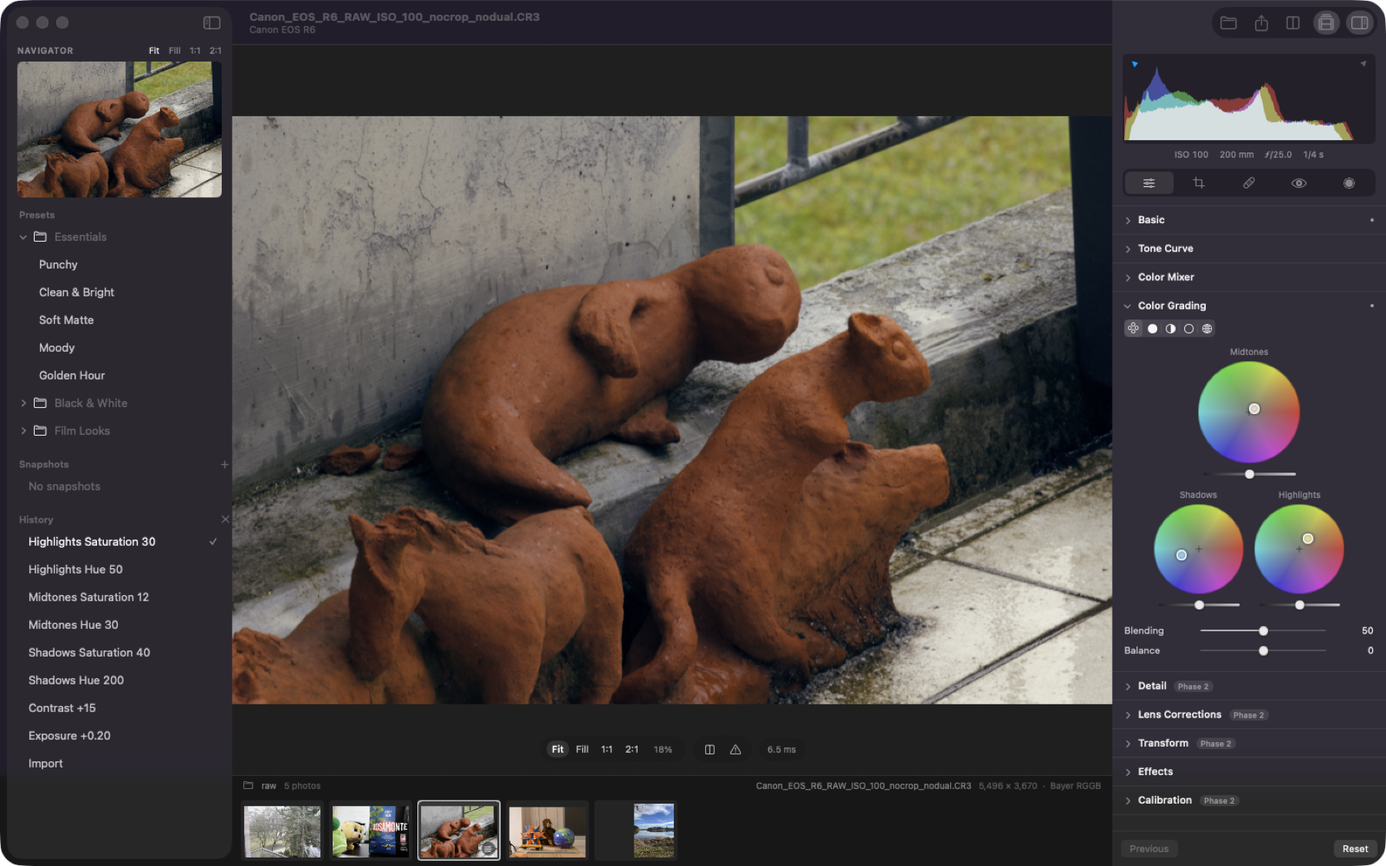
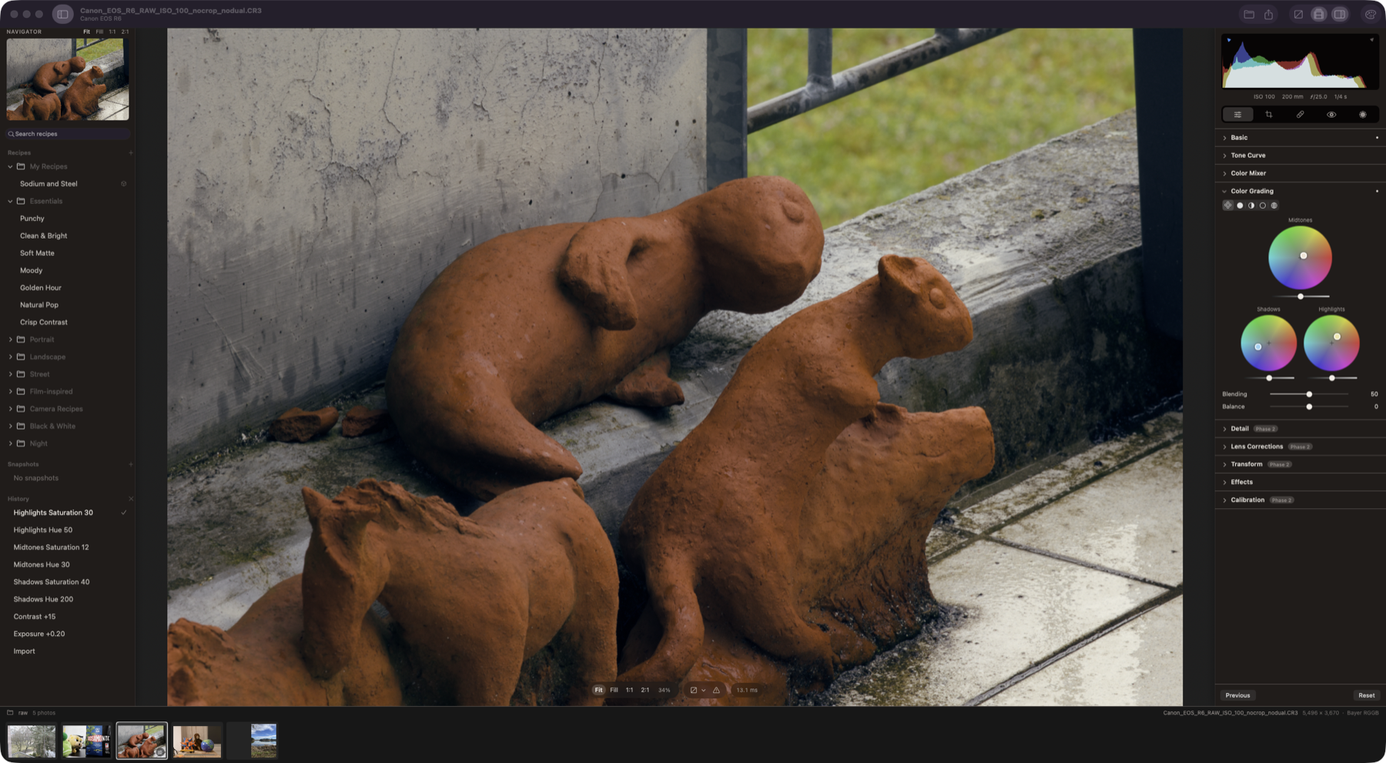
README: branding, app and Recipe Lab screenshots, harness guide and updated milestones
- App icon and logo lockup at the top; status, what works, recipes and looks, and the roadmap brought up to date
- New screenshots: camera recipe, Detail at 1:1, side-by-side before/after, five Recipe Lab views and harness tokens
- Screenshot script works on a temporary copy of the fixtures, launches through open, restores the last folder, and captures the harness
- Recipe Lab launch options for scripted captures (tab, compare, mode, image, run, hidden gallery)

diff --git a/apps/RedlampHarness/Sources/Scenes/RecipeLabScene.swift b/apps/RedlampHarness/Sources/Scenes/RecipeLabScene.swift
@@ -13,7 +13,13 @@ extension HarnessScene {
                 + "compare, inspect, lint, create, and review agent runs",
             section: .recipes,
         ) {
-            RecipeLabView(model: HarnessLab.model)
+            RecipeLabView(
+                model: HarnessLab.model,
+                tab: HarnessLaunch.value(after: "--lab-tab").flatMap { name in
+                    RecipeLabView.Tab.allCases.first { $0.rawValue.lowercased() == name.lowercased() }
+                } ?? .compare,
+                showsGallery: !HarnessLaunch.arguments.contains("--lab-hide-gallery"),
+            )
         }
         scene.fillsStage = true
         return scene
@@ -29,10 +35,25 @@ enum HarnessLab {
             fatalError("The harness needs a Metal GPU")
         }
         let model = RecipeLabModel(engine: engine, editor: HarnessEditor.model, root: repositoryRoot)
-        // `--lab-select <recipe id>` preselects a recipe, for scripted screenshots.
+        // For scripted screenshots: `--lab-select <recipe id>` and `--lab-compare <recipe id>`
+        // pick A and B, `--lab-mode <split|beforeAfter|sideBySide|flicker|acrossSet>` the
+        // comparison, `--lab-image <camera>` the photo, `--lab-tab <tab>` and
+        // `--lab-hide-gallery` the layout, and `--lab-run <run>` the studio run.
         if let id = HarnessLaunch.value(after: "--lab-select") {
             model.selectedID = model.allItems.first { $0.recipe.id == id }?.id
         }
+        if let id = HarnessLaunch.value(after: "--lab-compare") {
+            model.compareID = model.allItems.first { $0.recipe.id == id }?.id
+        }
+        if let name = HarnessLaunch.value(after: "--lab-mode"),
+           let mode = LabCompareMode.allCases.first(where: { "\($0)".lowercased() == name.lowercased() }) {
+            model.compareMode = mode
+        }
+        if let name = HarnessLaunch.value(after: "--lab-image"),
+           let image = model.images.first(where: { $0.name.localizedCaseInsensitiveContains(name) }) {
+            model.selectedImage = image
+        }
+        model.preferredRun = HarnessLaunch.value(after: "--lab-run")
         return model
     }()
 

diff --git a/packages/RedlampUI/Sources/Recipes/Lab/RecipeLabView.swift b/packages/RedlampUI/Sources/Recipes/Lab/RecipeLabView.swift
@@ -10,22 +10,24 @@ import UniformTypeIdentifiers
 /// Built in RedlampUI so the harness, the app and a companion app can all host it.
 public struct RecipeLabView: View {
     @Bindable var model: RecipeLabModel
-    @State private var tab = Tab.compare
-    @State private var showGallery = true
+    @State private var tab: Tab
+    @State private var showGallery: Bool
 
-    enum Tab: String, CaseIterable, Identifiable {
+    public enum Tab: String, CaseIterable, Identifiable, Sendable {
         case compare = "Compare"
         case inspect = "Inspect"
         case create = "Create"
         case runs = "Runs"
 
-        var id: String {
+        public var id: String {
             rawValue
         }
     }
 
-    public init(model: RecipeLabModel) {
+    public init(model: RecipeLabModel, tab: Tab = .compare, showsGallery: Bool = true) {
         self.model = model
+        _tab = State(initialValue: tab)
+        _showGallery = State(initialValue: showsGallery)
     }
 
     public var body: some View {

diff --git a/packages/RedlampUI/Sources/Recipes/Lab/RecipeRunsView.swift b/packages/RedlampUI/Sources/Recipes/Lab/RecipeRunsView.swift
@@ -30,11 +30,11 @@ final class RecipeRunsModel {
     private(set) var message: String?
     @ObservationIgnored private var lastModified = Date.distantPast
 
-    init(root: URL, rater: String = NSUserName()) {
+    init(root: URL, rater: String = NSUserName(), preferredRun: String? = nil) {
         self.root = root
         self.rater = rater
         runs = RunStore.all(root: root)
-        selectedRun = runs.first?.id
+        selectedRun = runs.first { $0.id == preferredRun }?.id ?? runs.first?.id
         reload()
     }
 
@@ -221,7 +221,7 @@ struct RecipeRunsView: View {
         }
         .onAppear {
             if runs == nil, let root = model.root {
-                runs = RecipeRunsModel(root: root)
+                runs = RecipeRunsModel(root: root, preferredRun: model.preferredRun)
             }
         }
     }

diff --git a/packages/RedlampUI/Sources/Recipes/Lab/RecipeLabModel.swift b/packages/RedlampUI/Sources/Recipes/Lab/RecipeLabModel.swift
@@ -157,6 +157,9 @@ public final class RecipeLabModel {
         return recipes + looks + candidates
     }
 
+    /// The studio run the Runs tab opens on; the first run when nil.
+    public var preferredRun: String?
+
     /// Studio candidates opened from the Runs tab, so they can be compared at full size.
     public private(set) var candidates: [LabItem] = []
     /// Changes whenever the Runs tab asks the Lab to show the Compare tab.

diff --git a/README.md b/README.md
@@ -1,12 +1,21 @@
-# Redlamp
+<p align="center">
+  <img src="docs/brand/images/app-icon.png" width="128" height="128" alt="The Redlamp app icon: a glowing ruby safelight lens in a steel bezel">
+</p>
 
-**A native, open-source RAW photo editor for Mac, iPad, and iPhone that anyone who knows Lightroom will find familiar.**
+<h1 align="center">
+  <picture>
+    <source media="(prefers-color-scheme: light)" srcset="docs/brand/logo/redlamp-lockup-light.svg">
+    <img src="docs/brand/logo/redlamp-lockup.svg" width="288" alt="Redlamp">
+  </picture>
+</h1>
+
+<p align="center"><b>A native, open-source RAW photo editor for Mac, iPad, and iPhone that anyone who knows Lightroom will find familiar.</b></p>
 
 Redlamp is built from scratch in Swift and Metal for Apple Silicon. It focuses on one thing, *developing* photos, and aims to do it faster and more natively than anything else on the platform.
 
 ![Redlamp editing a Nikon Z 6 raw file](docs/images/editor.png)
 
-> **Status: pre-alpha, iteration 2 (macOS).** The core RAW pipeline, the Develop workspace, and the Basic, Tone Curve, Color Mixer, Color Grading, and Effects adjustments and noise reduction work today, and so does **masking with linear and radial gradients** and local adjustments. Crop, healing, brush and AI masks, lens corrections, and the iPad and iPhone apps are next. See [Where we are](#where-we-are) and the [Roadmap](#roadmap).
+> **Status: pre-alpha, iteration 2 (macOS).** The core RAW pipeline and the Develop workspace work today: Basic (with Texture, Clarity and Dehaze), Tone Curve, Color Mixer, Color Grading, Detail (noise reduction and sharpening) and Effects, **masking with linear and radial gradients** and local adjustments, and **Recipes**, Redlamp's presets, profiles and LUTs in one, with film looks measured from cameras' own renderings. Crop, healing, brush and AI masks, lens corrections, focus stacking, and the iPad and iPhone apps are next. See [Where we are](#where-we-are) and the [Roadmap](#roadmap).
 >
 > This README is the project's primary status page and is kept up to date as work lands. *Last updated: 30 September 2026.*
 
@@ -20,6 +29,7 @@ Redlamp is built from scratch in Swift and Metal for Apple Silicon. It focuses o
 - [Screenshots](#screenshots)
 - [Roadmap](#roadmap)
 - [Getting started](#getting-started)
+- [Component harness](#component-harness)
 - [Using Redlamp](#using-redlamp)
 - [Architecture](#architecture)
 - [Contributing](#contributing)
@@ -55,7 +65,7 @@ Lightroom defined how millions of photographers edit, but it is a cross-platform
 
 **RAW pipeline (our own, GPU-first)**
 - [x] Decodes RAW files through LibRaw (unpacking only). Black levels, white balance, demosaicing, and color are all done by Redlamp on the GPU.
-- [x] Bayer demosaic by directional filtering with a posteriori decision (Menon, Andriani and Calvagno, 2007), a first-generation X-Trans demosaic, and linear DNG support (for example iPhone ProRAW).
+- [x] Bayer demosaic by directional filtering with a posteriori decision (Menon, Andriani and Calvagno, 2007), with a dual pass that takes plain green where the neighbours differ only by noise, a first-generation X-Trans demosaic, and linear DNG support (for example iPhone ProRAW).
 - [x] Hot pixels are repaired before demosaicing, judged against each photo's own noise level.
 - [x] **Highlight reconstruction:** channels are no longer clipped at 1 after white balance, and photosites that did clip are rebuilt from their bright unclipped neighbours, using the colour measured around the clipped area. Fully blown areas stay neutral.
 - [x] Tested on Sony **ARW**, Canon **CR3**, Nikon **NEF**, Fujifilm **RAF** (X-Trans), and Apple **ProRAW DNG**, plus JPEG, HEIC, TIFF, and PNG.
@@ -69,7 +79,7 @@ Lightroom defined how millions of photographers edit, but it is a cross-platform
 **Develop adjustments that render**
 - [x] **White balance:** Temp and Tint, the presets, Auto, and the eyedropper.
 - [x] **Basic:** Exposure, Contrast, Highlights, Shadows, Whites, Blacks, Vibrance, and Saturation, plus the **Auto** button.
-- [x] **Treatment** (Color or B&W) and **Base Looks** (Lightroom's profiles) with an Amount slider (0–200) and a browser that renders every look on the photo. There are six built-in looks (Redlamp Color, Neutral, Vivid, Landscape, Portrait and Monochrome) and 15 film-style looks built on 3D look tables: slide, chrome, negative, cinema, bleach and black and white through color filters. Three of them (standard, vivid slide and chrome) are measured from cameras' own renderings by the look profiler, and land within ΔE 2.7–3.4 of the camera on photos the fit never saw.
+- [x] **Treatment** (Color or B&W) and **Base Looks** (Lightroom's profiles) with an Amount slider (0–200) and a browser that renders every look on the photo. There are six built-in looks (Redlamp Color, Neutral, Vivid, Landscape, Portrait and Monochrome) and 15 film-style looks built on 3D look tables: slide, chrome, negative, cinema, bleach and black and white through color filters. Four of them are measured from cameras' own renderings by the look profiler (see [Recipes and looks](#recipes-and-looks)).
 - [x] **Tone Curve:** a parametric curve with split points, and a point curve with presets.
 - [x] **Color Mixer:** HSL (Hue, Saturation, Luminance, and All) and a per-color mode, working in OKLCh.
 - [x] **Color Grading:** 3-way and individual wheels, Blending, and Balance. It also tints B&W images for split-toning.
@@ -97,14 +107,35 @@ Lightroom defined how millions of photographers edit, but it is a cross-platform
 - [x] **Histogram:** clipping indicators, and you can drag across it to adjust Blacks, Shadows, Exposure, Highlights, or Whites.
 - [x] **Recipes** (Lightroom's presets, profiles and LUTs, in one): 39 bundled recipes in eight groups, including camera-style ones built from Fujifilm-style recipe cards. Hover to preview, click to apply, then adjust the recipe's Amount. You can search (Lightroom's words work), mark favorites, save the current edit as a recipe with a settings checklist (⇧⌘N), and import or export `.redrecipe`, `.cube` and HaldCLUT files. Snapshots and full undo/redo history are also available.
 - [x] **Camera-recipe controls** in the Effects panel: Dynamic Range, Color Chrome, Chrome FX Blue, and red and blue white-balance shift.
-- [x] **Viewing:** Fit, Fill, 1:1, and 2:1 zoom, click to zoom, pan, pinch, before/after, and a clipping overlay.
+- [x] **Viewing:** Fit, Fill, 1:1, and 2:1 zoom, click to zoom, pan, pinch, and a clipping overlay. **Before/After** (`\`) in three layouts, full frame, side by side and a diagonal split, cycled with `Y` and `⇧Y`; the original is rendered once and cached, so edits don't re-render it.
+- [x] **Themes:** Neutral greys by default, so nothing tints your judgment of color, plus a Redlamp theme and 20 dark and light families with a tint control, from the toolbar's Theme button or **Settings** (⌘,), which also has an About tab.
 - [x] **Lightroom Classic's keyboard shortcuts**: 80 actions on 84 key bindings, from one registry that also drives the menus and an in-app ⌘/ reference (see [Keyboard shortcuts](#keyboard-shortcuts)).
 - [x] **Find an adjustment** (⌘F): search the Develop sliders by name or the words people use (Lightroom's older names too), then jump to it; ⌘-scroll over any slider adjusts it (Shift coarse, Option fine), and value fields accept arithmetic such as `x+10`.
 - [x] **Culling while you develop:** star ratings, pick/reject flags and color labels, shown on the filmstrip. There's also an Info overlay (`I`), Lights Out (`L`), full-screen preview (`F`), and Paste from Previous (`⌥⌘V` and the Previous button).
 - [x] Non-destructive edits, saved automatically to a sidecar file next to each photo (`IMG_1234.ARW.redlamp`).
-- [x] Export to JPEG, plus a headless `redlamp` command-line tool for rendering and export.
+- [x] Export to JPEG, plus a headless `redlamp` command-line tool for rendering and export. Exports smaller than the photo are developed at full resolution and downscaled last, so sharpening, noise reduction and texture look the same at every size.
 
-**Panels laid out but not yet rendering** (shown dimmed, with the phase they arrive in): Moiré and Defringe in masks, and the Lens Corrections, Transform, and Calibration panels. The Crop, Healing, and Red Eye tools show what is coming and when.
+### Recipes and looks
+
+- [x] **One `.redrecipe` format** for presets, profiles and LUTs: an explicit list of setting groups, an optional Base Look pinned by content hash, immutable versions, and namespaced ids ready for sharing ([format](docs/recipes/recipe-format.md), [JSON Schema](docs/recipes/recipe-format.schema.json)).
+- [x] **Camera recipe cards:** Fujifilm-style recipes (film simulation, dynamic range, highlight and shadow tone, color, Color Chrome, white balance shift, grain) are a recipe dialect you can type in as the card lists them ([mapping](docs/recipes/camera-card-mapping.md)).
+- [x] **Measured film looks.** The profiler fits a look to cameras' own JPEGs of the same raw files: Fujifilm raws carry the camera's rendering inside. On photos the fit never saw:
+
+  | Base Look | Like | Measured from | ΔE to the camera (lower is closer) |
+  | --- | --- | --- | --- |
+  | Standard v3 | Provia | 120 photos, 50 bodies | 3.26 (Redlamp Color: 5.38) |
+  | Vivid Slide v2 | Velvia | 10 bodies | 3.39 (4.45) |
+  | Chrome v3 | Classic Chrome | 18 photos, 5 bodies | 4.61 (5.72) |
+  | Soft Slide v2 | Astia | 5 photos, 3 bodies, provisional | 4.57 (12.84) |
+
+  The others are hand-designed until there's data for them ([look development](docs/recipes/look-development.md#measured-base-looks-the-profiler)). Looks keep Redlamp's own names.
+- [x] **Look-development tools:** lint (neutral axis, skin hue, monotonic lightness, banding, clipping) on a synthetic chart, golden renders per recipe version, style fingerprints and a fitter, and the **Recipe Lab** in the [component harness](#component-harness).
+- [x] **An agent recipe studio** ([docs](docs/recipes/agent-studio.md)): curator, colorist and critic agents work through `redlamp mcp` on briefs drawn from public-domain references. People approve the briefs and pick the winners in the Recipe Lab, and the critics are only trusted after they agree with human picks on held-out pairs.
+
+### In progress
+
+- **Focus stacking:** the engine decodes, aligns (ECC, for focus breathing, rotation and shift) and warps the frames, solves a depth map, and fuses them with Auto, Smooth and Detail strategies, one frame at a time; the merge develops like any raw. `redlamp stack` runs it from the command line (a 25-frame R5 II stack takes about 24 s). The app's UI is next.
+- **Panels laid out but not yet rendering** (shown dimmed, with the phase they arrive in): Moiré and Defringe in masks, and the Lens Corrections, Transform, and Calibration panels. The Crop, Healing, and Red Eye tools show what is coming and when.
 
 ### Measured performance
 
@@ -134,8 +165,9 @@ With both side panels in AppKit, most of what remains is Core Animation committi
 
 ### Known limitations
 
-- Highlights and Shadows are per-pixel approximations for now. Lightroom-quality versions need edge-aware local tone mapping, which arrives with Clarity and Texture in Phase 2.
-- X-Trans demosaicing is a first-generation interpolation. A Markesteijn-class demosaic (and AMaZE and RCD for Bayer sensors) comes in Phase 2.
+- Highlights and Shadows are per-pixel approximations for now. Lightroom-quality versions need edge-aware local tone mapping (an exposure-independent guided filter), planned for Phase 2.
+- X-Trans demosaicing is a first-generation interpolation. A Markesteijn-class demosaic comes in Phase 2.
+- Redlamp's exposure for Fujifilm raws differs from the camera's by up to ±0.9 EV depending on the body; the profiler removes it when measuring looks, and the engine fix is tracked (TON-14).
 - Color uses a single-illuminant Adobe-derived matrix: LibRaw's, or the DNG's own ColorMatrix. Dual-illuminant DCP profiles come in Phase 2.
 - Masks support linear and radial gradients only. Brush, range, and AI masks come in Phases 2 and 3.
 - Local Whites and Blacks are approximated with tonal-region gains.
@@ -157,9 +189,21 @@ With both side panels in AppKit, most of what remains is Core Animation committi
 
 ![Color grading](docs/images/color-grading.png)
 
-**Black & white on a Sony A7 III ARW.** The Selenium preset plus vignette and grain, with every step in History.
+**A camera recipe on a Fujifilm X-T3 RAF.** Chrome Street, built from a Fujifilm-style recipe card, on the measured Chrome Base Look. The recipe's Amount is in the Recipes panel, and its tone, Color Chrome and grain settings land in the Basic and Effects panels like any other edit.
+
+![A camera recipe](docs/images/recipes.png)
+
+**Black & white on a Sony A7 III ARW.** The Selenium recipe plus vignette and grain, with every step in History.
 
 ![Black and white](docs/images/black-and-white.png)
+
+**Detail at 1:1 on a Canon EOS R6 CR3.** Noise reduction scaled to the photo's measured noise, and noise-aware sharpening that measures detail on a denoised copy, so grain isn't sharpened.
+
+![Detail at 1:1](docs/images/detail.png)
+
+**Before and after, side by side, on a Nikon Z 6 NEF.** Exposure, Highlights, Shadows, Dehaze, Clarity and Vibrance; the original renders once and is cached.
+
+![Before and after](docs/images/before-after.png)
 
 **Fujifilm X-T3 X-Trans RAF at 1:1.** The full-resolution frame renders in about 13 ms, and the Color Mixer is shown in HSL mode.
 
@@ -169,7 +213,31 @@ With both side panels in AppKit, most of what remains is Core Animation committi
 
 ![ProRAW](docs/images/proraw.png)
 
-<sub>Sample images are CC0 files from [raw.pixls.us](https://raw.pixls.us). The screenshots are generated by `mise run screenshots`.</sub>
+### The Recipe Lab
+
+The Lab lives in the [component harness](#component-harness). It renders every recipe, Base Look and imported LUT on a 40-image CC0 look-development set.
+
+**Gallery and split compare.** Thumbnails of every item on the chosen photo, filtered by kind, group, tag and lint result. On the right, the selected recipe (Chrome Street) against the original, with a draggable divider.
+
+![The Recipe Lab gallery and split compare](docs/images/lab-gallery.png)
+
+**One recipe across the set.** Gritty Street on landscapes, animals, night streets, foliage and interiors at once, to catch a look that only works on one kind of photo.
+
+![A recipe across the look-development set](docs/images/lab-across-set.png)
+
+**A against B.** Two camera recipes, Chrome Street and Bright Slide, on the same photo.
+
+![Two recipes side by side](docs/images/lab-side-by-side.png)
+
+**Inspect.** Every included setting with its key, the camera card the recipe was built from, and the Base Look's table statistics and lint.
+
+![Inspecting a recipe](docs/images/lab-inspect.png)
+
+**Agent studio runs.** A brief with the public-domain references it was drawn from, and the candidates developed against it with their lineage, lint and distance to the references. Each candidate opens in Compare at full size; pairwise picks and final picks are recorded for the critics' evals.
+
+![A studio run in the Recipe Lab](docs/images/lab-runs.png)
+
+<sub>Sample images are CC0 files from [raw.pixls.us](https://raw.pixls.us); the brief's references are public-domain and CC0 photos from Wikimedia Commons. The screenshots are generated by `mise run screenshots`.</sub>
 
 ## Roadmap
 
@@ -182,7 +250,7 @@ Every phase ships on Mac, iPad, and iPhone. The Lightroom feature inventory in [
 - [x] Lightroom feature inventory
 - [x] GitHub Actions CI: purity gate, SwiftFormat lint, build, and tests, with cached LibRaw and fixtures
 - [ ] Performance lab: CI runner plus tethered iPhone and iPad, with per-tier regression gates that block merges
-- [ ] Golden-image color regression tests (ΔE2000)
+- [ ] Golden-image color regression tests (ΔE2000) for camera files (every bundled recipe version already has a golden render, never regenerated)
 - [ ] Written clean-room policy and a license-audit gate in CI
 
 ### Phase 1: First light *(in progress; macOS iterations 1 and 2 done)*
@@ -194,11 +262,17 @@ Every phase ships on Mac, iPad, and iPhone. The Lightroom feature inventory in [
 - [ ] iPad and iPhone shells (compact layout, touch, Apple Pencil)
 - [ ] Coordinated sidecar I/O for iCloud Drive and Files
 
-### Phase 2: Develop parity
-- [ ] Edge-aware Highlights and Shadows, and edge-refined Dehaze (Texture, Clarity and Dehaze are done)
-- [ ] Detail panel: sharpening and **best-in-class classical noise reduction**, profiled per camera and ISO, on raw data, with Lightroom's luminance and color controls
-- [ ] Better X-Trans demosaicing (Markesteijn) and a dual demosaic for Bayer (Bayer demosaicing from the Menon paper and highlight reconstruction are done)
-- [ ] Full DCP camera profiles (dual and triple illuminant), ICC input profiles, and `.3dl` and log-space LUT import (`.cube`, HaldCLUT and the Base Look browser are done)
+### Phase 2: Develop parity *(in progress)*
+- [x] Texture, Clarity and Dehaze, globally and inside masks
+- [x] Detail panel: noise reduction scaled to each photo's measured noise, and noise-aware sharpening, with Lightroom's controls
+- [x] Menon Bayer demosaic with a dual pass for flat noisy areas, hot-pixel repair and highlight reconstruction
+- [x] **Recipes:** one format for presets, profiles and LUTs, Base Look tables, camera recipe cards, `.cube` and HaldCLUT import, 39 bundled recipes, and the Recipe Lab
+- [x] Before/After layouts, themes and a Settings window
+- [ ] Edge-aware Highlights and Shadows, and edge-refined Dehaze
+- [ ] **Best-in-class classical noise reduction** on raw data, profiled per camera and ISO
+- [ ] Better X-Trans demosaicing (Markesteijn)
+- [ ] Full DCP camera profiles (dual and triple illuminant), ICC input profiles, and `.3dl` and log-space LUT import
+- [ ] **Film effects for recipes:** halation (the red glow around bright lights), bloom and diffusion, and film grain that varies with density and scales with output size
 - [ ] Lens corrections from the lensfun database, Adobe LCP import, and DNG opcodes
 - [ ] Crop and straighten, Transform and Upright
 - [ ] Brush, color range, and luminance range masks, and Vision AI masks (subject, sky, background, people)
@@ -209,9 +283,11 @@ Every phase ships on Mac, iPad, and iPhone. The Lightroom feature inventory in [
 - [ ] SAM-class object and people-part masks, mask refinement, mask presets, and syncing masks across photos
 - [ ] Healing, clone, and content-aware remove, with AI inpainting on the device
 - [ ] **AI Denoise:** an on-device model working on raw data, matching or beating the best commercial denoisers, with a fast 1:1 preview and non-destructive results
-- [ ] **Focus stacking v1:** stacks detected automatically in the filmstrip, alignment (including focus breathing and handheld sequences), depth-map and pyramid fusion strategies, a retouch brush, and results that stay fully editable
+- [ ] **Focus stacking v1:** stacks detected automatically in the filmstrip, alignment (including focus breathing and handheld sequences), depth-map and pyramid fusion strategies, a retouch brush, and results that stay fully editable *(alignment, depth solve, fusion and `redlamp stack` done)*
 - [ ] Manufacturer lens corrections embedded in RAW files (Sony, Fujifilm, Panasonic, OM System)
-- [ ] `redlamp-profiler`: look matching by black-box measurement (Fujifilm film simulation–inspired looks, Adobe-compatible looks), with a DCP and LUT writer. Fitted looks fill the camera-card film slots as new Base Look versions.
+- [ ] `redlamp-profiler`: look matching by black-box measurement *(raw-against-camera-JPEG fitting done: four measured film looks ship)*. Still to do: the remaining film simulations (Eterna, Classic Negative, Nostalgic Negative, Pro Neg, Acros, Reala Ace), which need a shoot with one camera, a chart matrix solve, and a DCP writer
+- [ ] **Analogue film stocks:** film and digital shot side by side with charts, scanned and fitted by the profiler, with halation, bloom and grain per stock
+- [ ] **The agent recipe studio at scale:** many more recipes developed from briefs, once the critics agree with human picks (about 200 pairwise verdicts)
 
 ### Phase 4: 1.0
 - [ ] Lightroom XMP sidecar import, HDR/EDR editing and export, and batch export
@@ -228,7 +304,7 @@ Every phase ships on Mac, iPad, and iPhone. The Lightroom feature inventory in [
 
 The [AI and computational photography brief](docs/research/ai-and-computational-photography-brief.md) covers denoise, AI across the product (upscaling, masks, removal, auto settings), and focus stacking. Its first round of [findings](docs/research/ai-findings.md) gives a verdict for each workstream, a license matrix for every candidate model and dataset, the engine AI architecture, measured Core ML and focus-stacking prototypes (in [`research/prototypes/`](research/prototypes/README.md)), and proposed changes to the phases above.
 
-A [study of darktable](docs/research/darktable-findings.md), the most complete open-source raw developer, covers how it handles cameras, color science, modules and masks, presets and sidecars, lenses, performance and UX, and what Redlamp should adopt, do better or skip in each area. Every recommendation from both studies is tracked, with its decision, phase and status, in the [research intake tracker](docs/research/research-tracker.md).
+A [study of darktable](docs/research/darktable-findings.md), the most complete open-source raw developer, covers how it handles cameras, color science, modules and masks, presets and sidecars, lenses, performance and UX, and what Redlamp should adopt, do better or skip in each area. A [study of Topaz-style upscaling and sharpening](docs/research/notes/H-topaz-upscale-sharpen.md) includes a measured bake-off of open models. Every recommendation from these studies is tracked, with its decision, phase and status, in the [research intake tracker](docs/research/research-tracker.md).
 
 ## Getting started
 
@@ -276,24 +352,39 @@ mise run render -- render ~/Pictures/DSC01234.ARW -o out.jpg --size 2048 \
 | `mise run lookdev` | Download the 40-image CC0 look-development set into `build/look-dev` (checksums verified) |
 | `mise run profile-data` | Download the CC0 Fujifilm raw and camera-JPEG pairs the look profiler fits against |
 | `mise run render` | Build and run the `redlamp` CLI |
-| `mise run screenshots` | Regenerate the README screenshots (needs Screen Recording permission) |
+| `mise run screenshots` | Regenerate the README screenshots of the app and the harness, on temporary copies of the fixtures (needs Screen Recording permission, the fixtures and the look-development set) |
 | `mise run harness` (`h`) | Build and launch the UI component harness |
 | `scripts/perf-sweep.sh [Debug\|Release] [parameter] [script]` | Drag a slider for 3 s and report main-thread smoothness. `PROFILE=1` adds a main-thread profile; `PANELS=swiftui` measures the SwiftUI panels |
 | `scripts/harness-capture.sh <scene> <png> [mode]` | Screenshot a harness scene; with `side` mode, `swift scripts/parity-diff.swift <png>` scores it and `scripts/parity-rows.swift` compares it row by row |
 
-### Component harness
+## Component harness
 
-`mise run harness` opens Redlamp Harness, a development app for building and reviewing UI components in isolation, in the spirit of a design-system workbench. It hosts the real frameworks and the real editor (with a sample photo open, copied to a temporary folder so reviews never write sidecars):
+`mise run harness` opens **Redlamp Harness**, a development app for building and reviewing Redlamp's UI in isolation, in the spirit of a design-system workbench. It links the real frameworks and hosts the real editor, with a sample photo copied to a temporary folder so reviews never write sidecars. Scenes are listed on the left by section. The stage in the middle can sit on the panel background, the canvas grey or black (top right), and the theme, dark or light appearance and tint are under the scene list, so every scene can be checked in every theme.
 
-- **Foundations:** the palette, the type ramp (SwiftUI and AppKit side by side), and metrics.
-- **Controls and Panels:** every component in every state worth reviewing, each with a note on what would be wrong with it.
-- **Parity:** a SwiftUI original and its AppKit port at the same width, shown side by side, as a difference blend (identical pixels are black), as an onion skin, or flickering. The inspector has knobs for drawing constants and a **Copy values** button. `--probe` measures SwiftUI and AppKit elements one by one and writes the sizes to `/tmp/redlamp-probe.txt`.
-- **Performance:** drags a slider at 120 events a second through each implementation and reports how busy the main thread got.
-- **Recipe Lab:** every recipe, Base Look and imported LUT on the look-development set and a lint chart. It compares before and after, A against B, and one recipe across the set; it inspects settings, table statistics and lint; it creates recipes with the real Develop panels or a camera card; and it shows the agent studio's runs, where people approve briefs and make pairwise and final picks.
+| Section | Scenes | What they're for |
+| --- | --- | --- |
+| **Foundations** | Tokens, Theme gallery | The palette, the type ramp (SwiftUI and AppKit side by side) and metrics; every theme at once |
+| **Controls** | Slider row, Panel chrome | Each component in every state worth reviewing, with a note on what would be wrong with it |
+| **Panels** | Basic | A panel wired to the live editor |
+| **Parity** | Slider rows, Basic, Tone Curve, Histogram, Color Mixer, Color Grading, Detail, Effects, Lens Corrections, Transform, Calibration, Masking, Inspector column, Navigator, the sidebar lists | A SwiftUI original and its AppKit port at the same width: side by side, as a difference blend (identical pixels are black), as an onion skin, or flickering. The inspector has knobs for drawing constants and a **Copy values** button |
+| **Performance** | Basic panel drag | Drags a slider at 120 events a second through each implementation and reports how busy the main thread got |
+| **Recipes** | Recipe Lab | Every recipe, Base Look and imported LUT on the look-development set and a lint chart (see below) |
+
+![Tokens in the harness: the palette, type ramp and metrics](docs/images/harness-tokens.png)
 
 ![The harness comparing the SwiftUI Basic panel with its AppKit port](docs/images/harness-parity.png)
 
-To add a component, write a scene in `apps/RedlampHarness/Sources/Scenes/` and register it in `BuiltInScenes.swift`. Against their SwiftUI originals, the ports score a mean difference of 0.05 (Tone Curve) to 0.12 (Basic) grey levels, with at least 99.97% of pixels within 24 levels; the rest is anti-aliasing on the slider thumbs.
+Against their SwiftUI originals, the AppKit ports score a mean difference of 0.05 (Tone Curve) to 0.12 (Basic) grey levels, with at least 99.97% of pixels within 24 levels; the rest is anti-aliasing on the slider thumbs.
+
+**The Recipe Lab** (screenshots [above](#the-recipe-lab)) has four tabs:
+- **Compare:** the selected item against the original with a draggable split, before and after, A against B, flickering between them, or one recipe across the whole set. Double-click a comparison to hide the gallery.
+- **Inspect:** included settings with their keys, the camera card, Base Look table statistics, and lint with each check's measurements.
+- **Create:** a new recipe from the real Develop panels ("Edit in Develop", then "Capture"), a camera card, or an imported `.cube` or HaldCLUT, saved to My Recipes.
+- **Runs:** the agent studio's runs. Approve briefs next to their references, open candidates in Compare, judge pairs large on any photo, and pick finals or add them to My Recipes.
+
+**Launch options,** for reviews and scripted screenshots: `--scene <id>`, `--background panel|canvas|black`, `--parity-mode`, `--theme <id>`, `--appearance dark|light`, `--tint <0…1>`, and for the Lab `--lab-tab`, `--lab-select <recipe id>`, `--lab-compare <recipe id>`, `--lab-mode split|beforeAfter|sideBySide|flicker|acrossSet`, `--lab-image <camera>`, `--lab-run <run>` and `--lab-hide-gallery`. `--probe` measures SwiftUI and AppKit elements one by one and writes the sizes to `/tmp/redlamp-probe.txt`. `scripts/harness-capture.sh <scene> <png> [mode] [options…]` screenshots a scene; `scripts/theme-sweep.sh` captures scenes in every theme.
+
+To add a component, write a scene in `apps/RedlampHarness/Sources/Scenes/` and register it in `BuiltInScenes.swift`.
 
 ## Using Redlamp
 
